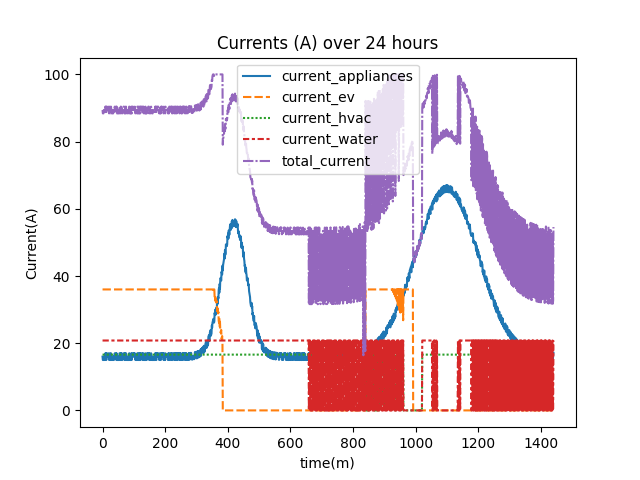
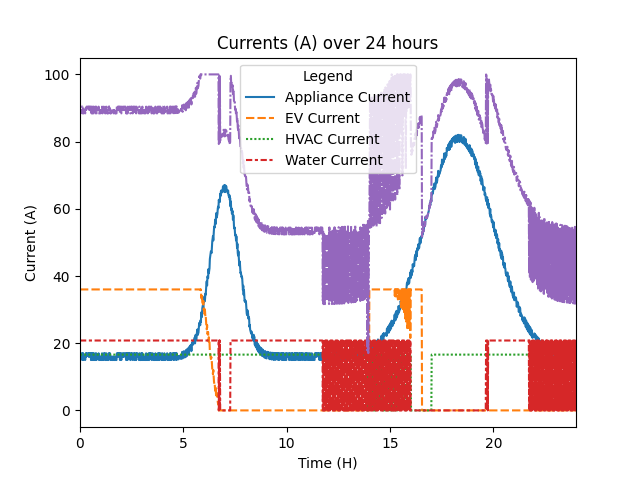
new graphs

diff --git a/simulation/sim.py b/simulation/sim.py
@@ -20,14 +20,14 @@ def bimodal_appliances(time):
     app_list = []
     for t in range(time):
         if t < 810:
-            app_list.append(np.mean(np.random.normal(60-(abs(t-420)/8), 5, 100)))
+            app_list.append(np.mean(np.random.normal(90-(abs(t-420)/8), 5, 100)))
         else:
-            app_list.append(np.mean(np.random.normal(80-(abs(t-1080)/8), 5, 100)))
+            app_list.append(np.mean(np.random.normal(93-(abs(t-1080)/8), 5, 100)))
     return app_list
 
 #current_appliances_list = [50 + 20 * np.sin(t / 200) + np.random.randint(5) for t in range(0,1441)]
 # current_appliances_list = list(bimodal_appliances(1441))
-current_appliances_list = [15 + 40*gaussian(t, 420, 40) + 50*gaussian(t, 1100, 100) + np.random.randint(3) for t in range(0,1441)]
+current_appliances_list = [15 + 50*gaussian(t, 420, 40) + 65*gaussian(t, 1100, 100) + np.random.randint(3) for t in range(0,1441)]
 # The following three functions get the housetemp, change in t, and cost as a result
 def heating_function_hvac(time,time_step, house_temp, current_hvac, house_size, outside_temp):
     # TODO: The parameters have to be chosen more realistically (I just sorta picked them at random). If that's too hard, then let's at least push our model to its limits.
@@ -230,7 +230,7 @@ if __name__ == '__main__':
     temp_data = df[["water_temp", "house_temp", "outside_temp", "comfort_temp","hours"]]
     temp_data = temp_data.melt('hours', var_name='cols', value_name='vals')
     plot = sns.lineplot(data=temp_data, y="vals", x="hours", hue="cols", style="cols") 
-    plot.set(xlim=(0,24),xlabel="time(H)", ylabel="temperature(C)", title="House and Water Temp (C) over 24 hours")
+    plot.set(xlim=(0,24),xlabel="Time (H)", ylabel="Temperature (C)", title="House and Water Temp (C) over 24 hours")
     plot.legend(title='Legend', labels=["Water Temp","House Temp", "Outside Temp", "Comfort Temp"])
 
     # TODO: charge EV has to be put into a separate plot because the values are too large
@@ -241,7 +241,11 @@ if __name__ == '__main__':
     fig.clf()
     df.to_csv("problem.csv")
     df["total_current"] = df["current_appliances"] + df["current_hvac"] + df["current_ev"] + df["current_water"]
-    plot2 = sns.lineplot(data = df[["current_appliances", "current_ev", "current_hvac", "current_water","total_current"]])
-    plot2.set(xlabel="time(m)", ylabel="Current(A)", title="Currents (A) over 24 hours")
+
+    charge_data = df[["hours","current_appliances", "current_ev", "current_hvac", "current_water","total_current"]]
+    charge_data = charge_data.melt('hours', var_name='cols', value_name='vals')
+    plot2 = sns.lineplot(data = charge_data, y="vals", x="hours", hue="cols", style="cols" )
+    plot2.set(xlim=(0,24),xlabel="Time (H)", ylabel="Current (A)", title="Currents (A) over 24 hours")
+    plot2.legend(title='Legend', labels=["Appliance Current","EV Current", "HVAC Current", "Water Current"])
     fig2 = plot2.get_figure()
     fig2.savefig("charge.png")
